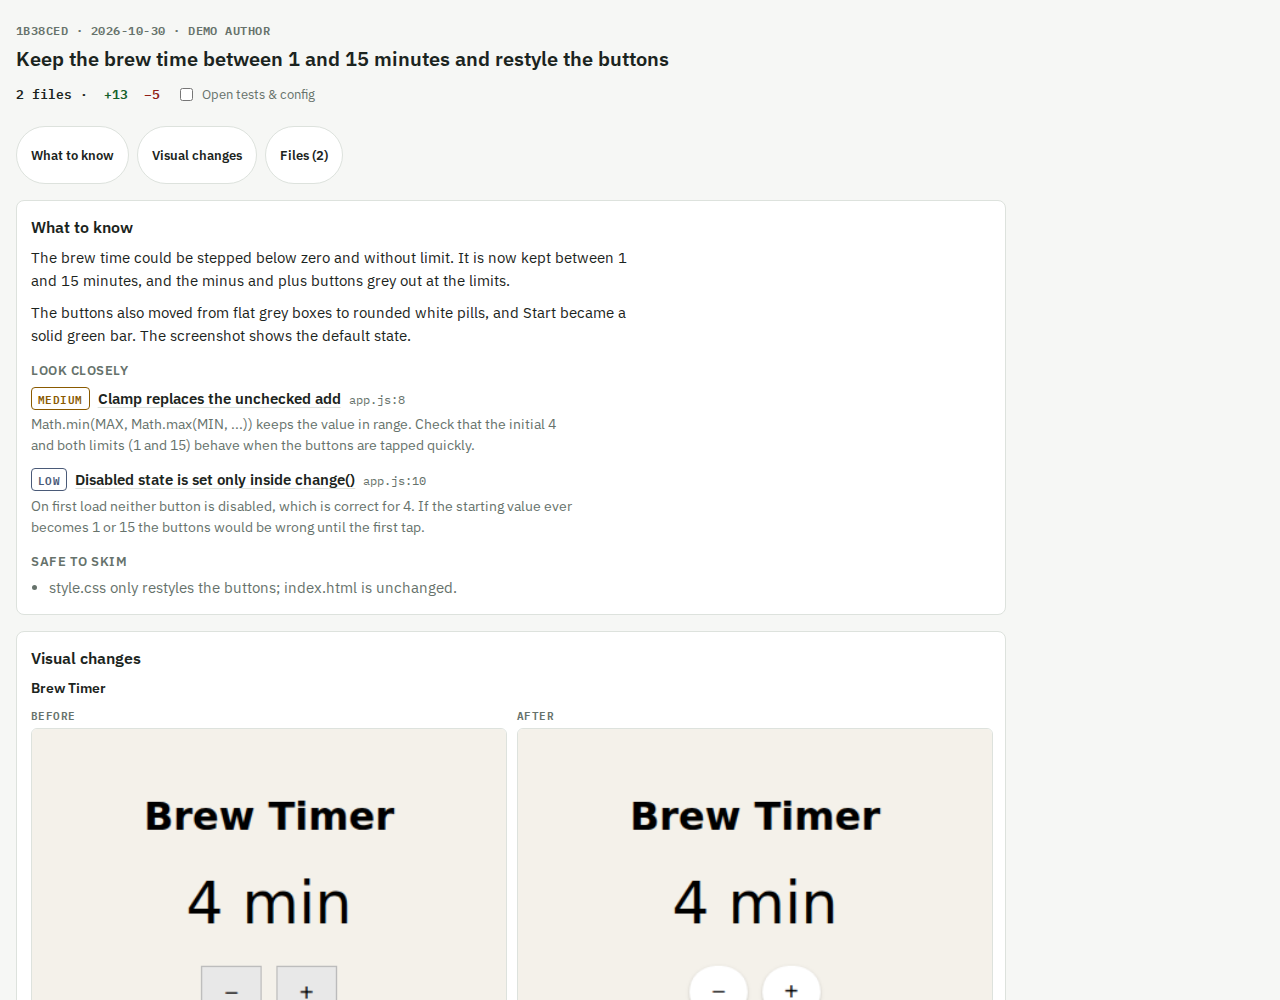
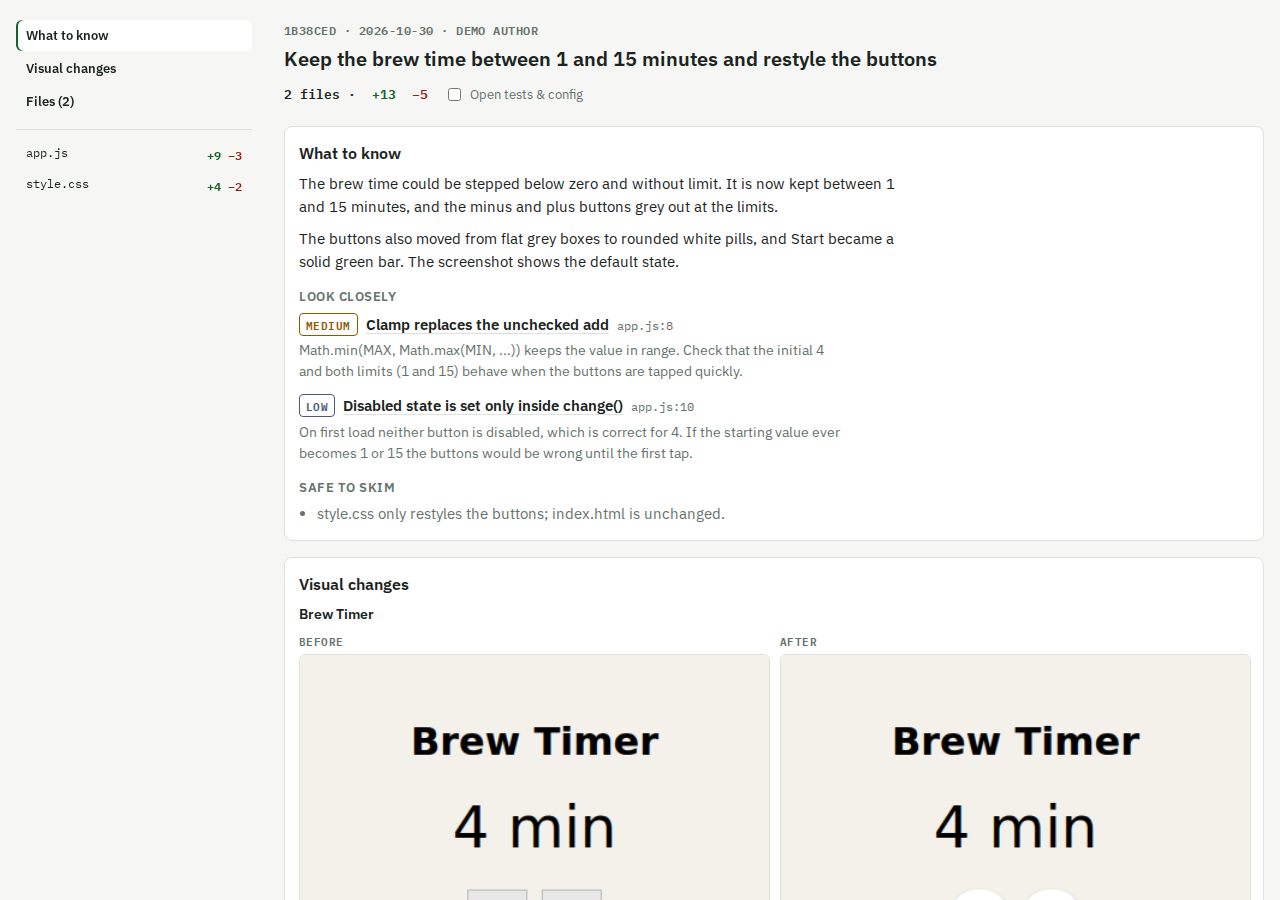
Show contents as a sticky sidebar on wide screens

diff --git a/examples/brew-timer-review.html b/examples/brew-timer-review.html
@@ -27,7 +27,8 @@
 body { background: var(--bg); color: var(--fg); font-family: var(--sans); font-size: 15px; line-height: 1.5;
   padding-block: 20px 48px; padding-left: max(16px, env(safe-area-inset-left, 0px));
   padding-right: max(16px, env(safe-area-inset-right, 0px)); }
-main { max-width: 860px; margin: 0 auto; display: flex; flex-direction: column; gap: 16px; }
+.layout { max-width: 860px; margin: 0 auto; display: flex; flex-direction: column; gap: 16px; }
+main { display: flex; flex-direction: column; gap: 16px; min-width: 0; }
 header { display: flex; flex-direction: column; gap: 6px; }
 .sha { font: 600 12px var(--mono); color: var(--muted); letter-spacing: .04em; text-transform: uppercase; }
 h1 { font-size: 20px; line-height: 1.3; margin: 0; text-wrap: balance; }
@@ -88,10 +89,27 @@ code { font: inherit; white-space: pre-wrap; overflow-wrap: anywhere; word-break
 .u.del, .c.del { background: var(--del-bg); color: var(--del-fg); } .u.del .num, .c.del .num { background: var(--del-num); color: var(--del-fg); }
 .flash { outline: 2px solid var(--accent); outline-offset: -2px; animation: fade 2.4s ease-out forwards; }
 @keyframes fade { to { outline-color: transparent; } }
-summary:focus-visible, nav a:focus-visible, .jump:focus-visible, .tabs button:focus-visible { outline: 2px solid var(--accent); outline-offset: -2px; }
+summary:focus-visible, nav a:focus-visible, .toc a:focus-visible, .jump:focus-visible, .tabs button:focus-visible { outline: 2px solid var(--accent); outline-offset: -2px; }
 
+.toc nav { display: flex; flex-wrap: wrap; gap: 8px; }
+.toc nav > a { font: 600 13px var(--sans); color: var(--fg); text-decoration: none; background: var(--surface);
+  border: 1px solid var(--line); border-radius: 999px; padding: 8px 14px; min-height: 40px; display: inline-flex; align-items: center; }
+.toc-files { display: none; }
 @media (min-width: 900px) {
-  main { max-width: 1480px; }
+  .layout { display: grid; grid-template-columns: 240px minmax(0, 1fr); gap: 16px 28px; max-width: 1760px; align-items: start; }
+  .layout > header { grid-column: 2; grid-row: 1; }
+  .layout > .toc { grid-column: 1; grid-row: 1 / span 2; }
+  .layout > main { grid-column: 2; grid-row: 2; }
+  .toc { position: sticky; top: 20px; max-height: calc(100vh - 40px); overflow-y: auto; padding-right: 4px; }
+  .toc nav { flex-direction: column; flex-wrap: nowrap; gap: 2px; }
+  .toc nav > a { border: 0; background: none; border-radius: 6px; padding: 7px 10px; min-height: 0; box-shadow: inset 2px 0 0 transparent; }
+  .toc nav > a:hover, .toc-files a:hover { background: var(--surface); }
+  .toc a.active { background: var(--surface); box-shadow: inset 2px 0 0 var(--accent); }
+  .toc-files { display: flex; flex-direction: column; gap: 1px; margin-top: 10px; padding-top: 10px; border-top: 1px solid var(--line); }
+  .toc-files a { display: flex; justify-content: space-between; gap: 8px; padding: 5px 10px; border-radius: 6px;
+    font: 12px var(--mono); color: var(--fg); text-decoration: none; box-shadow: inset 2px 0 0 transparent; }
+  .toc-files a span:first-child { min-width: 0; overflow-wrap: anywhere; }
+  #files nav.files { display: none; }
   .view-unified { display: none; } .view-split { display: block; }
   .guide, .visual { max-width: 960px; }
   .figs { grid-template-columns: 1fr 1fr; }
@@ -101,17 +119,16 @@ summary:focus-visible, nav a:focus-visible, .jump:focus-visible, .tabs button:fo
 }
 @media (prefers-reduced-motion: reduce) { .flash { animation: none; } }
 
-.toc { display: flex; flex-wrap: wrap; gap: 8px; }
-.toc a { font: 600 13px var(--sans); color: var(--fg); text-decoration: none; background: var(--surface);
-  border: 1px solid var(--line); border-radius: 999px; padding: 8px 14px; min-height: 40px; display: inline-flex; align-items: center; }
 section[id] { scroll-margin-top: 12px; }
 #files > h2 { margin: 4px 0 8px; }
 </style>
-<main>
+<div class="layout">
 <header><div class="sha">1b38ced · 2026-10-30 · Demo Author</div><h1>Keep the brew time between 1 and 15 minutes and restyle the buttons</h1>
 <div class="totals">2 files · <span class="a">+13</span> <span class="d">−5</span>
 <label class="toggle"><input type="checkbox" id="quiet-toggle"> Open tests &amp; config</label></div></header>
-<nav class="toc" aria-label="Contents"><a href="#guide">What to know</a><a href="#visual">Visual changes</a><a href="#files">Files (2)</a></nav>
+<aside class="toc"><nav aria-label="Contents"><a href="#guide" data-spy="guide">What to know</a><a href="#visual" data-spy="visual">Visual changes</a><a href="#files" data-spy="files">Files (2)</a><div class="toc-files"><a href="#f0" data-target="f0" title="app.js"><span>app.js</span><span class="stat"><i class="a">+9</i> <i class="d">−3</i></span></a><a href="#f1" data-target="f1" title="style.css"><span>style.css</span><span class="stat"><i class="a">+4</i> <i class="d">−2</i></span></a></div></nav></aside>
+<main>
+
 <section class="guide" id="guide"><h2>What to know</h2><p>The brew time could be stepped below zero and without limit. It is now kept between 1 and 15 minutes, and the minus and plus buttons grey out at the limits.</p><p>The buttons also moved from flat grey boxes to rounded white pills, and Start became a solid green bar. The screenshot shows the default state.</p><h3>Look closely</h3><ol class="focus"><li><a class="jump" href="#f0-L8" data-target="f0-L8"><span class="risk medium">medium</span><b>Clamp replaces the unchecked add</b><span class="where">app.js:8</span></a><p>Math.min(MAX, Math.max(MIN, ...)) keeps the value in range. Check that the initial 4 and both limits (1 and 15) behave when the buttons are tapped quickly.</p></li><li><a class="jump" href="#f0-L10" data-target="f0-L10"><span class="risk low">low</span><b>Disabled state is set only inside change()</b><span class="where">app.js:10</span></a><p>On first load neither button is disabled, which is correct for 4. If the starting value ever becomes 1 or 15 the buttons would be wrong until the first tap.</p></li></ol><h3>Safe to skim</h3><ul><li>style.css only restyles the buttons; index.html is unchanged.</li></ul></section>
[1 lines of base64/hex data omitted]
 <section id="files"><h2>Files changed</h2><nav class="files" aria-label="Files"><a href="#f0" data-target="f0"><span>app.js</span><span class="stat"><i class="a">+9</i> <i class="d">−3</i></span></a><a href="#f1" data-target="f1"><span>style.css</span><span class="stat"><i class="a">+4</i> <i class="d">−2</i></span></a></nav></section>
@@ -124,6 +141,7 @@ section[id] { scroll-margin-top: 12px; }
 <span class="stat"><i class="a">+4</i> <i class="d">−2</i></span></summary>
 <div class="code"><div class="view-unified"><div class="hunk">@@ line 1 </div><div class="u ctx" data-a="f1-L1"><span class="num">1</span><span class="mark"></span><code>body { font-family: system-ui, sans-serif; background: #f4f1ea; margin: 0; }</code></div><div class="u ctx" data-a="f1-L2"><span class="num">2</span><span class="mark"></span><code>main { max-width: 360px; margin: 0 auto; padding: 32px 16px; text-align: center; }</code></div><div class="u ctx" data-a="f1-L3"><span class="num">3</span><span class="mark"></span><code>.time { font-size: 48px; margin: 24px 0; }</code></div><div class="u ctx" data-a="f1-L4"><span class="num">4</span><span class="mark"></span><code>.row { display: flex; gap: 12px; justify-content: center; }</code></div><div class="u del"><span class="num">5</span><span class="mark">−</span><code>button { font-size: 20px; padding: 10px 18px; border: 1px solid #bbb; background: #e8e8e8; cursor: pointer; }</code></div><div class="u del"><span class="num">6</span><span class="mark">−</span><code>.start { margin-top: 24px; width: 100%; }</code></div><div class="u add" data-a="f1-L5"><span class="num">5</span><span class="mark">+</span><code>button { font-size: 20px; padding: 10px 18px; border: 0; border-radius: 999px; background: #fff;</code></div><div class="u add" data-a="f1-L6"><span class="num">6</span><span class="mark">+</span><code>  box-shadow: 0 1px 3px rgba(0,0,0,.18); cursor: pointer; }</code></div><div class="u add" data-a="f1-L7"><span class="num">7</span><span class="mark">+</span><code>button:disabled { opacity: .35; cursor: not-allowed; }</code></div><div class="u add" data-a="f1-L8"><span class="num">8</span><span class="mark">+</span><code>.start { margin-top: 24px; width: 100%; background: #1f6b43; color: #fff; padding: 14px; }</code></div></div><div class="view-split"><div class="hunk">@@ line 1 </div><div class="pair"><div class="c ctx"><span class="num">1</span><code>body { font-family: system-ui, sans-serif; background: #f4f1ea; margin: 0; }</code></div><div class="c ctx" data-a="f1-L1"><span class="num">1</span><code>body { font-family: system-ui, sans-serif; background: #f4f1ea; margin: 0; }</code></div></div><div class="pair"><div class="c ctx"><span class="num">2</span><code>main { max-width: 360px; margin: 0 auto; padding: 32px 16px; text-align: center; }</code></div><div class="c ctx" data-a="f1-L2"><span class="num">2</span><code>main { max-width: 360px; margin: 0 auto; padding: 32px 16px; text-align: center; }</code></div></div><div class="pair"><div class="c ctx"><span class="num">3</span><code>.time { font-size: 48px; margin: 24px 0; }</code></div><div class="c ctx" data-a="f1-L3"><span class="num">3</span><code>.time { font-size: 48px; margin: 24px 0; }</code></div></div><div class="pair"><div class="c ctx"><span class="num">4</span><code>.row { display: flex; gap: 12px; justify-content: center; }</code></div><div class="c ctx" data-a="f1-L4"><span class="num">4</span><code>.row { display: flex; gap: 12px; justify-content: center; }</code></div></div><div class="pair"><div class="c del"><span class="num">5</span><code>button { font-size: 20px; padding: 10px 18px; border: 1px solid #bbb; background: #e8e8e8; cursor: pointer; }</code></div><div class="c add" data-a="f1-L5"><span class="num">5</span><code>button { font-size: 20px; padding: 10px 18px; border: 0; border-radius: 999px; background: #fff;</code></div></div><div class="pair"><div class="c del"><span class="num">6</span><code>.start { margin-top: 24px; width: 100%; }</code></div><div class="c add" data-a="f1-L6"><span class="num">6</span><code>  box-shadow: 0 1px 3px rgba(0,0,0,.18); cursor: pointer; }</code></div></div><div class="pair"><div class="c empty"><span class="num"></span><code> </code></div><div class="c add" data-a="f1-L7"><span class="num">7</span><code>button:disabled { opacity: .35; cursor: not-allowed; }</code></div></div><div class="pair"><div class="c empty"><span class="num"></span><code> </code></div><div class="c add" data-a="f1-L8"><span class="num">8</span><code>.start { margin-top: 24px; width: 100%; background: #1f6b43; color: #fff; padding: 14px; }</code></div></div></div></div></details>
 </main>
+</div>
 <script>(function () {
   // Jump to a diff line (or file): open its file, pick the anchor that is actually visible (unified vs split), flash it.
   function go(target) {
@@ -154,6 +172,23 @@ section[id] { scroll-margin-top: 12px; }
   if (toggle) toggle.addEventListener("change", function () {
     document.querySelectorAll('details[data-quiet="1"]').forEach(function (d) { d.open = toggle.checked; });
   });
+  // Highlight the contents link for whatever is at the top of the screen.
+  var spy = Array.prototype.slice.call(document.querySelectorAll("#guide, #visual, #files, details.file"));
+  var links = document.querySelectorAll(".toc a");
+  var ticking = false;
+  function mark() {
+    ticking = false;
+    var cur = null;
+    spy.forEach(function (el) { if (el.getBoundingClientRect().top <= window.innerHeight * 0.5) cur = el; });
+    var id = cur && cur.id;
+    links.forEach(function (a) {
+      var t = a.getAttribute("data-spy") || a.getAttribute("data-target");
+      a.classList.toggle("active", t === id);
+      if (t === id) a.setAttribute("aria-current", "location"); else a.removeAttribute("aria-current");
+    });
+  }
+  window.addEventListener("scroll", function () { if (!ticking) { ticking = true; requestAnimationFrame(mark); } }, { passive: true });
+  mark();
 })();
 </script>
 </body></html>

diff --git a/skills/diff-review/scripts/diff.css b/skills/diff-review/scripts/diff.css
@@ -23,7 +23,8 @@
 body { background: var(--bg); color: var(--fg); font-family: var(--sans); font-size: 15px; line-height: 1.5;
   padding-block: 20px 48px; padding-left: max(16px, env(safe-area-inset-left, 0px));
   padding-right: max(16px, env(safe-area-inset-right, 0px)); }
-main { max-width: 860px; margin: 0 auto; display: flex; flex-direction: column; gap: 16px; }
+.layout { max-width: 860px; margin: 0 auto; display: flex; flex-direction: column; gap: 16px; }
+main { display: flex; flex-direction: column; gap: 16px; min-width: 0; }
 header { display: flex; flex-direction: column; gap: 6px; }
 .sha { font: 600 12px var(--mono); color: var(--muted); letter-spacing: .04em; text-transform: uppercase; }
 h1 { font-size: 20px; line-height: 1.3; margin: 0; text-wrap: balance; }
@@ -84,10 +85,27 @@ code { font: inherit; white-space: pre-wrap; overflow-wrap: anywhere; word-break
 .u.del, .c.del { background: var(--del-bg); color: var(--del-fg); } .u.del .num, .c.del .num { background: var(--del-num); color: var(--del-fg); }
 .flash { outline: 2px solid var(--accent); outline-offset: -2px; animation: fade 2.4s ease-out forwards; }
 @keyframes fade { to { outline-color: transparent; } }
-summary:focus-visible, nav a:focus-visible, .jump:focus-visible, .tabs button:focus-visible { outline: 2px solid var(--accent); outline-offset: -2px; }
+summary:focus-visible, nav a:focus-visible, .toc a:focus-visible, .jump:focus-visible, .tabs button:focus-visible { outline: 2px solid var(--accent); outline-offset: -2px; }
 
+.toc nav { display: flex; flex-wrap: wrap; gap: 8px; }
+.toc nav > a { font: 600 13px var(--sans); color: var(--fg); text-decoration: none; background: var(--surface);
+  border: 1px solid var(--line); border-radius: 999px; padding: 8px 14px; min-height: 40px; display: inline-flex; align-items: center; }
+.toc-files { display: none; }
 @media (min-width: 900px) {
-  main { max-width: 1480px; }
+  .layout { display: grid; grid-template-columns: 240px minmax(0, 1fr); gap: 16px 28px; max-width: 1760px; align-items: start; }
+  .layout > header { grid-column: 2; grid-row: 1; }
+  .layout > .toc { grid-column: 1; grid-row: 1 / span 2; }
+  .layout > main { grid-column: 2; grid-row: 2; }
+  .toc { position: sticky; top: 20px; max-height: calc(100vh - 40px); overflow-y: auto; padding-right: 4px; }
+  .toc nav { flex-direction: column; flex-wrap: nowrap; gap: 2px; }
+  .toc nav > a { border: 0; background: none; border-radius: 6px; padding: 7px 10px; min-height: 0; box-shadow: inset 2px 0 0 transparent; }
+  .toc nav > a:hover, .toc-files a:hover { background: var(--surface); }
+  .toc a.active { background: var(--surface); box-shadow: inset 2px 0 0 var(--accent); }
+  .toc-files { display: flex; flex-direction: column; gap: 1px; margin-top: 10px; padding-top: 10px; border-top: 1px solid var(--line); }
+  .toc-files a { display: flex; justify-content: space-between; gap: 8px; padding: 5px 10px; border-radius: 6px;
+    font: 12px var(--mono); color: var(--fg); text-decoration: none; box-shadow: inset 2px 0 0 transparent; }
+  .toc-files a span:first-child { min-width: 0; overflow-wrap: anywhere; }
+  #files nav.files { display: none; }
   .view-unified { display: none; } .view-split { display: block; }
   .guide, .visual { max-width: 960px; }
   .figs { grid-template-columns: 1fr 1fr; }
@@ -97,8 +115,5 @@ summary:focus-visible, nav a:focus-visible, .jump:focus-visible, .tabs button:fo
 }
 @media (prefers-reduced-motion: reduce) { .flash { animation: none; } }
 
-.toc { display: flex; flex-wrap: wrap; gap: 8px; }
-.toc a { font: 600 13px var(--sans); color: var(--fg); text-decoration: none; background: var(--surface);
-  border: 1px solid var(--line); border-radius: 999px; padding: 8px 14px; min-height: 40px; display: inline-flex; align-items: center; }
 section[id] { scroll-margin-top: 12px; }
 #files > h2 { margin: 4px 0 8px; }

diff --git a/skills/diff-review/scripts/diff.js b/skills/diff-review/scripts/diff.js
@@ -28,4 +28,21 @@
   if (toggle) toggle.addEventListener("change", function () {
     document.querySelectorAll('details[data-quiet="1"]').forEach(function (d) { d.open = toggle.checked; });
   });
+  // Highlight the contents link for whatever is at the top of the screen.
+  var spy = Array.prototype.slice.call(document.querySelectorAll("#guide, #visual, #files, details.file"));
+  var links = document.querySelectorAll(".toc a");
+  var ticking = false;
+  function mark() {
+    ticking = false;
+    var cur = null;
+    spy.forEach(function (el) { if (el.getBoundingClientRect().top <= window.innerHeight * 0.5) cur = el; });
+    var id = cur && cur.id;
+    links.forEach(function (a) {
+      var t = a.getAttribute("data-spy") || a.getAttribute("data-target");
+      a.classList.toggle("active", t === id);
+      if (t === id) a.setAttribute("aria-current", "location"); else a.removeAttribute("aria-current");
+    });
+  }
+  window.addEventListener("scroll", function () { if (!ticking) { ticking = true; requestAnimationFrame(mark); } }, { passive: true });
+  mark();
 })();

diff --git a/skills/diff-review/scripts/render_diff.py b/skills/diff-review/scripts/render_diff.py
@@ -206,7 +206,15 @@ else:
 
 guide_h, shots_h = notes_html(), shots_html()
 sections_toc = ([("guide", "What to know")] if guide_h else []) + ([("visual", "Visual changes")] if shots_h else []) + [("files", f"Files ({len(files)})")]
-toc_html = '<nav class="toc" aria-label="Contents">' + "".join(f'<a href="#{i}">{e(t)}</a>' for i, t in sections_toc) + "</nav>"
+def side_file(i, f):
+    d, _, name = f["path"].rpartition("/")
+    return (f'<a href="#f{i}" data-target="f{i}" title="{e(f["path"])}"><span>{e(name)}</span>'
+            f'<span class="stat"><i class="a">+{f["add"]}</i> <i class="d">−{f["del"]}</i></span></a>')
+
+
+toc_html = ('<aside class="toc"><nav aria-label="Contents">'
+            + "".join(f'<a href="#{i}" data-spy="{i}">{e(t)}</a>' for i, t in sections_toc)
+            + '<div class="toc-files">' + "".join(side_file(i, f) for i, f in enumerate(files)) + "</div></nav></aside>")
 
 CSS = open(os.path.join(os.path.dirname(os.path.abspath(__file__)), "diff.css")).read()
 JS = open(os.path.join(os.path.dirname(os.path.abspath(__file__)), "diff.js")).read()
@@ -215,16 +223,19 @@ page = f"""<title>Diff Review</title>
 <meta name="claude:viewport-fit-sides" content="cover">
 <link rel="stylesheet" href="https://fonts.googleapis.com/css2?family=IBM+Plex+Mono:wght@400;600&family=IBM+Plex+Sans:wght@400;600&display=swap">
 <style>{CSS}</style>
-<main>
+<div class="layout">
 <header>{title_html}
 <div class="totals">{len(files)} files · <span class="a">+{total_add}</span> <span class="d">−{total_del}</span>
 <label class="toggle"><input type="checkbox" id="quiet-toggle"> Open tests &amp; config</label></div></header>
 {toc_html}
+<main>
+
 {guide_h}
 {shots_h}
 <section id="files"><h2>Files changed</h2><nav class="files" aria-label="Files">{toc}</nav></section>
 {sections}
 </main>
+</div>
 <script>{JS}</script>
 """
 if args.standalone:

diff --git a/README.md b/README.md
@@ -6,7 +6,8 @@ Terminal diffs are hard to read on a small screen, and most review tools need a 
 
 - **A guide to the change.** A short plain-language summary, a "look closely" list ranked by risk with links that jump to the exact line, and a "safe to skim" list.
 - **Before/after screenshots** when the diff changes how something looks.
-- **The diff itself**: one column with wrapped lines on a phone, side by side on a wide screen, with a contents row and collapsible files.
+- **The diff itself**: one column with wrapped lines on a phone, side by side on a wide screen, with collapsible files.
+- **Navigation**: a sticky contents sidebar on wide screens (sections and files, with the current one highlighted), and a row of jump links on a phone.
 
 <p align="center">
   <img src="docs/screenshots/phone-guide.png" width="260" alt="Phone: contents row, summary and risk-ranked list">
